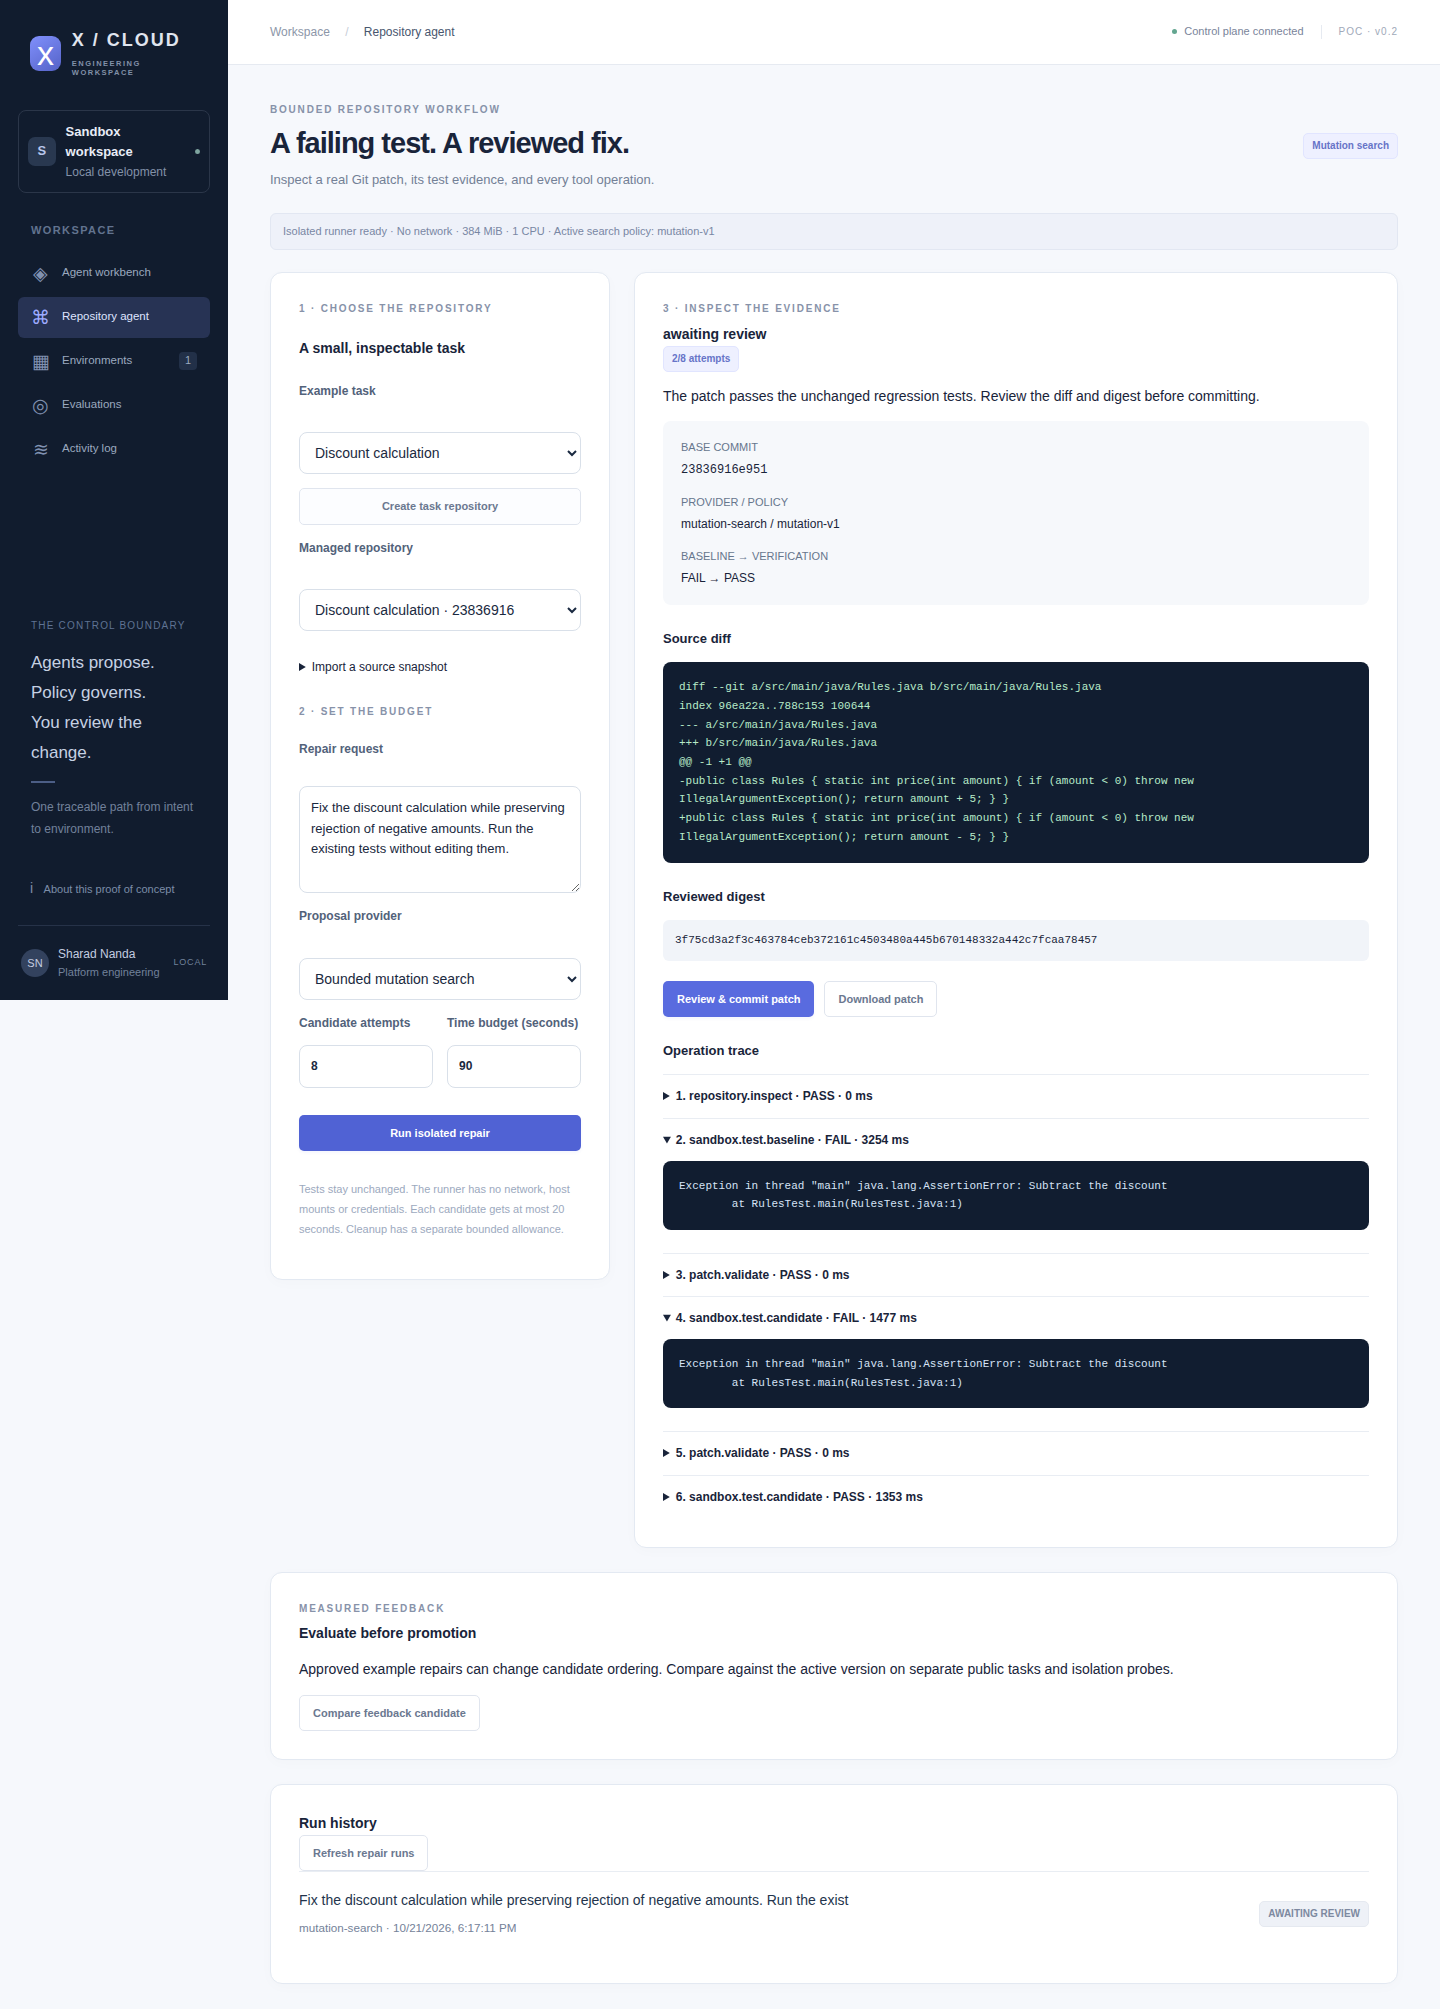
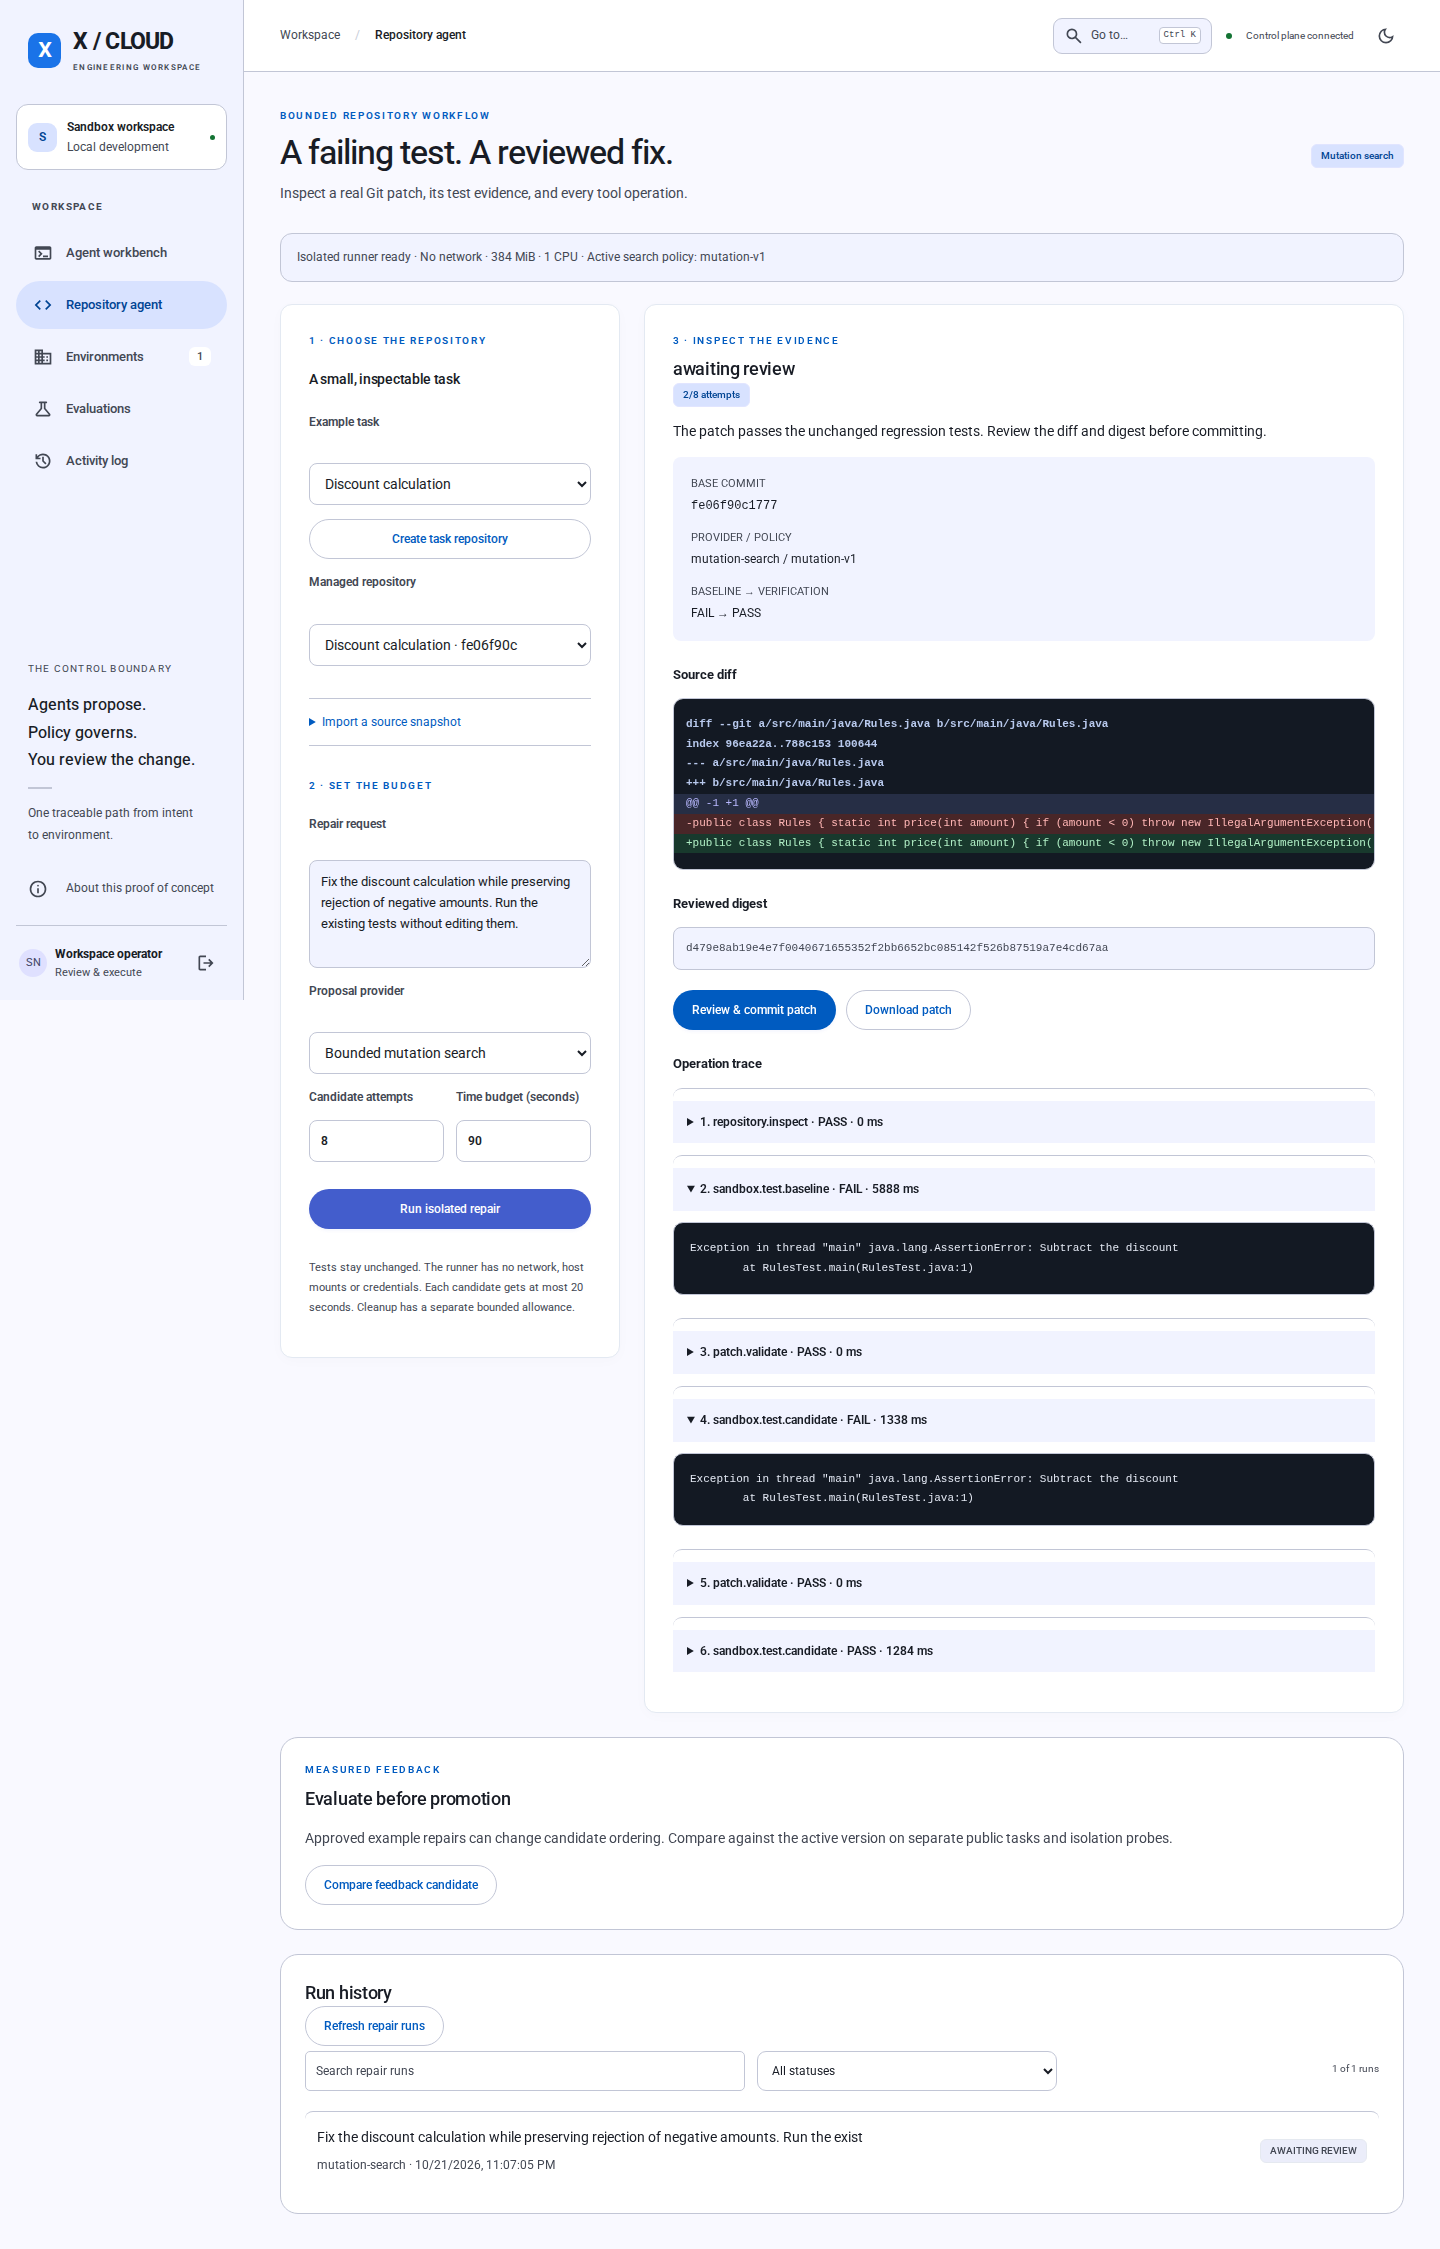
Record verified hosted image, accessible UI and Docker workflow evidence

diff --git a/docs/evidence/README.md b/docs/evidence/README.md
@@ -1,10 +1,12 @@
 # Recorded execution evidence
 
-These files contain outputs from actual local HTTP/process experiments and hosted Docker integration tests. [Verification summary](verification.json): **40 Java tests, eight browser scenarios and the process crash-restart check passed**. [Verified run](https://github.com/GeekNandy/AI-Native-Self-Managing-X-Cloud-Platform/actions/runs/39637509909).
+These files contain outputs from actual local HTTP/process experiments and hosted Docker integration tests. [Verification summary](verification.json): **45 Java tests, 15 browser scenarios, the process crash-restart check and the password-protected deployment-image check passed**. Automated WCAG checks found zero violations across eleven page/dialog states. [Verified run](https://github.com/GeekNandy/AI-Native-Self-Managing-X-Cloud-Platform/actions/runs/39675808610).
 
 | Experiment | Recorded result | Boundary |
 | --- | --- | --- |
 | [Control loop](control-plane.json) | 23/23 checks; one reviewed feedback case; retry replay; two drift fields recovered | Fixture interpretation and durable simulator |
+| [Hosted image](hosted-container-evidence.json) | Eleven checks pass: protected UI/API/assets/metrics/MCP, valid credentials, origin rejection and non-root execution | Actual deployment image; no Render deploy or live model calls |
+| [Accessibility](ui-accessibility.json) | Zero axe violations across eleven states; responsive layout at five widths in both themes | Automated WCAG rules plus retained screenshots; manual assistive-technology testing remains separate |
 | [Crash and restart](restart.json) | Six recovery checks passed after SIGKILL and a fresh JVM | Same single-node H2 directory; no distributed failover claim |
 | [Repository repair](docker-repair-evidence.json) | Failing baseline, passing unchanged tests, reviewed Git commit | Actual Docker execution of bounded Java snapshots |
 | Paired search improvement | Three tasks pass for both versions; five candidate attempts become three; all four safety probes pass | Disjoint public smoke tasks; measures mutation-search efficiency |
@@ -13,7 +15,7 @@ These files contain outputs from actual local HTTP/process experiments and hoste
 
 The Docker reports include the exact tested commit, workflow-run URL and artifact digest in `provenance`. GitHub Actions also runs a complete browser repair/approval/promotion scenario and retains execution reports and screenshots. These records are evidence for their identified source, not a substitute for checks on a later release.
 
[2 lines of base64/hex data omitted]
 
 ## Reproduce
 
@@ -25,6 +27,6 @@ python3 scripts/benchmark.py --requests 128 --concurrency 8 --output target/loca
 python3 scripts/verify-restart.py
 ```
 
-For real isolated execution, start Docker, pre-pull `eclipse-temurin:21-jdk`, then run `RUN_DOCKER_TESTS=true ./mvnw verify`. Reports appear under `target/docker-*-evidence.json`. The browser suite exercises the same runner when available.
+For real isolated execution, start Docker, pre-pull `eclipse-temurin:21-jdk`, then run `RUN_DOCKER_TESTS=true ./mvnw verify`. Reports appear under `target/docker-*-evidence.json`. The browser suite exercises the same runner when available. `python3 scripts/verify-container.py` builds the hosted image and checks username/password access with temporary credentials. It leaves a secret-free report in `target/hosted-container-evidence.json`.
 
-No recorded file establishes live Gemini quality, model-weight training, cloud residency/encryption enforcement, hostile multi-tenant isolation or distributed capacity. Each requires its own backend and evaluation evidence.
+No recorded file establishes live Gemini/Nebius quality, model-weight training, cloud residency/encryption enforcement, hostile multi-tenant isolation or distributed capacity. Each requires its own backend and evaluation evidence.

diff --git a/docs/roadmap.md b/docs/roadmap.md
@@ -2,18 +2,18 @@
 
 ## Completed PoC scope
 
-The working release includes governed environment planning/recovery, durable single-node state, operator/agent scopes, bounded repository repair in actual containers, inspected Git patches, MCP tools, capability-checked local workload execution, and feedback-derived search-policy promotion gated by paired public tasks and isolation probes. See the [demo](demo-guide.md) and [evidence](evidence/README.md).
+The working release includes a responsive Material 3 workbench with local Google open source assets, optional hosted username/password access, and Gemini/Nebius proposal adapters. It covers governed environment planning/recovery, durable single-node state, operator/agent scopes, bounded repository repair in actual containers, inspected Git patches, MCP tools, capability-checked local workload execution, and feedback-derived search-policy promotion gated by paired public tasks and isolation probes. See the [demo](demo-guide.md) and [evidence](evidence/README.md).
 
 ## Next production increments
 
 | Area | Current evidence | Further work |
 | --- | --- | --- |
-| Generative quality | Strict Gemini adapters and deterministic contract tests | Repeated live-key trials, model/version tracking, token/cost measurements and unseen private datasets |
+| Generative quality | Strict Gemini/Nebius adapters and deterministic contract tests | Repeated live-key trials, model/version tracking, token/cost measurements and unseen private datasets |
 | Repair correctness | Unchanged regression tests on bounded Java snapshots | Multi-module projects, dependency-aware context, stronger oracles and adversarial correctness evaluation |
 | Feedback | Versioned mutation ordering, disjoint public smoke tasks and operator promotion | Protected evolving holdouts, statistical confidence, rollback and broader candidate changes |
 | Provider execution | Actual isolated local workloads and capability denials | Cloud IAM, quotas, encrypted storage, verified residency, Kubernetes admission and cross-zone failures |
 | Durability | Embedded transactional journal and crash/restart evidence | Migrations, backups/restore drills, distributed leases and fault injection across service boundaries |
-| Access | Scoped local tokens and origin enforcement | OIDC, tenant/resource authorization, credential rotation and remote TLS/OAuth deployment |
+| Access | Scoped bearer tokens, explicit hosted Basic access and origin enforcement | OIDC, tenant/resource authorization, credential rotation and OAuth for remote agents |
 | Execution isolation | Docker resource/privilege/network controls | MicroVM workers, hardened images, image digest lifecycle and hostile multi-tenant security review |
 | Operations | Bounded queues, retention and local measurements | Continuous reconciliation, workload lifecycle cleanup, long-duration saturation tests and distributed tracing |
 

diff --git a/docs/demo-guide.md b/docs/demo-guide.md
@@ -42,6 +42,12 @@ Start a separate workspace with `PLATFORM_RUNTIME=docker PLATFORM_DATA_DIR=.work
 
 Only one local zone, `region=local`, development tier, up to three replicas, private networking with no egress, ephemeral non-PII data and no automatic rollback are supported. The adapter denies unsupported requirements. Workloads have no published host ports; trusted health checks run through Docker exec. Stop or remove only containers labelled for this workspace when cleaning up. Runtime containers remain until explicitly removed or their 24-hour supervisor exits.
 
+## Live Nebius
+
+For the existing Token Factory account, start with `PLATFORM_AI_PROVIDER=nebius` and `NEBIUS_MODEL=nvidia/Nemotron-3.5-Super-VL`. Set `NEBIUS_API_KEY` privately in the process environment or Render's environment settings. See the [hosted configuration](deploy-render.md) for the exact authentication, inference and runtime contract. This model choice matches the prior working account configuration; current access and this project's live quality still require verification.
+
+A configured Nebius key also enables **Nebius structured patch** on a Docker-capable host. Both live patch providers send bounded source context and test output to their respective provider; use snapshots you are authorized to submit. Tests remain unchanged, proposed replacements must match source hashes, and approval stays with the operator.
+
 ## Live Gemini
 
 ```bash
@@ -67,8 +73,9 @@ npm ci
 npx playwright install chromium
 npm run check
 npm run test:e2e
+python3 scripts/verify-container.py
 ```
 
-Docker tests run actual repairs, paired promotion gates and generated workload recovery. The process test uses SIGKILL and a fresh JVM. Browser tests cover approval, denial, clarification, feedback, authentication, repository creation and mobile overflow.
+Docker tests run actual repairs, paired promotion gates and generated workload recovery. The process test uses SIGKILL and a fresh JVM. Browser tests cover approval, denial, clarification, feedback, repository creation, actual Docker repair, keyboard navigation, role controls, history and event exports, local assets, light/dark themes, five responsive widths and hosted username/password access. Automated WCAG checks inspect all five pages in both themes and the local unlock dialog. The container check builds the deployment image and verifies its access boundary as a non-root process.
 
 For API evidence and local measurements, run `scripts/demo.py` and `scripts/benchmark.py` against a fresh default workspace. They read the operator credential from `PLATFORM_OPERATOR_TOKEN` or `.workbench/operator.token`; `--token-file` supports another data directory. These workloads include durable local writes but exclude model inference, provider APIs and distributed scaling. Retention survives restart, so use a new workspace for repeated large measurements.

diff --git a/README.md b/README.md
@@ -47,7 +47,7 @@ Open **Repository agent**, create the **Discount calculation** example, run the 
 | Full-stack client | Material 3 light/dark UI, Google open source assets, keyboard navigation, mobile layouts, scoped controls, filters, history selection and evidence exports |
 | Optional Gemini / Nebius | Bounded intent extraction and typed source-patch proposals with no shell or approval capability |
 
-**Evidence boundary:** offline environment interpretation uses curated examples. Offline repository repair is real bounded mutation search, labelled separately from Gemini. The default environment adapter is a durable simulator; Docker enforces a narrow local development profile and denies unsupported cloud requirements. Public smoke tasks do not establish general model quality. Production cloud IAM, multi-tenant identity, distributed workers and live-model quality evidence remain outside this PoC.
+**Evidence boundary:** offline environment interpretation uses curated examples. Offline repository repair is real bounded mutation search, labelled separately from model inference. The default environment adapter is a durable simulator; Docker enforces a narrow local development profile and denies unsupported cloud requirements. Public smoke tasks do not establish general model quality. Production cloud IAM, multi-tenant identity, distributed workers and live-model quality evidence remain outside this PoC.
 
 ### Reproduce the evidence
 
@@ -67,13 +67,13 @@ RUN_DOCKER_TESTS=true ./mvnw verify
 
 [Recorded evidence](docs/evidence/README.md) identifies the tested source, harness and limitations. GitHub Actions runs Java, Docker, restart and browser checks and retains execution reports as artifacts.
 
-Verified: **40 Java tests, eight browser scenarios, actual Docker repair/recovery and SIGKILL restart checks**. See the [execution summary](docs/evidence/verification.json) and [recorded repair screen](docs/images/repository-repair.png).
+Verified: **45 Java tests, 15 browser scenarios, actual Docker repair/recovery, SIGKILL restart and password-protected deployment-image checks**. Automated WCAG checks found zero violations across eleven page/dialog states. See the [execution summary](docs/evidence/verification.json) and [recorded repair screen](docs/images/repository-repair.png).
 
 ### Documentation
 
 - [Material 3 UI and Google open source assets](docs/frontend.md)
 - [Render hosting, username/password and Nebius configuration](docs/deploy-render.md)
-- [Demo walkthrough and Gemini setup](docs/demo-guide.md)
+- [Demo walkthrough and live provider setup](docs/demo-guide.md)
 - [Repository repair, budgets and feedback promotion](docs/repository-workflow.md)
 - [Runtime capabilities, durable state and recovery](docs/runtime-and-state.md)
 - [MCP connection and tool contract](docs/mcp.md)

diff --git a/docs/frontend.md b/docs/frontend.md
@@ -12,4 +12,10 @@ The packaged app needs no Node runtime or frontend build step. To edit theme gen
 
 Google's [Material Web component library is in maintenance mode](https://m3.material.io/develop/web). This implementation uses the independent open source [color utilities](https://github.com/material-foundation/material-color-utilities), [symbols](https://developers.google.com/fonts/docs/material_symbols) and native controls. It is a custom Material 3 interface and uses no private Google product code.
 
+## Verification
+
+The browser suite exercises all five pages at 320, 390, 768, 1024 and 1440 pixels in both themes. It checks page/tabpanel focus, tab-scoped access, role restrictions, actual API history and exports, CSP/local assets, and hosted Basic authentication. Axe checks WCAG 2 A/AA, 2.1 AA and 2.2 AA rules across eleven page/dialog states. These automated checks supplement the retained desktop/mobile screenshots; they do not constitute a complete manual accessibility audit. See the [source-bound execution report](evidence/verification.json).
+
+Recorded views: [desktop light](images/workbench.png), [desktop dark](images/workbench-dark.png), [mobile dark](images/mobile-workbench.png) and [actual isolated repair](images/repository-repair.png).
+
 See [hosted deployment](deploy-render.md) for username/password access, live inference and hosted execution/persistence boundaries.

diff --git a/docs/deploy-render.md b/docs/deploy-render.md
@@ -2,6 +2,8 @@
 
 Deploy the repository's **feature** branch as one Docker web service. The root Dockerfile compiles Java 21, installs Git in a separate non-root runtime, binds to `0.0.0.0:$PORT`, and requires username/password access before serving the UI, configuration, API, metrics or MCP. `/actuator/health` is public liveness and contains no details.
 
+Use the **Free** plan for the initial demonstration, select **Docker**, keep the repository root as the build context, and deploy the **feature** branch. Set the HTTP health-check path to `/actuator/health` so readiness does not depend on an authenticated UI request.
+
 Configure runtime environment variables privately in Render:
 
 | Variable | Value |
